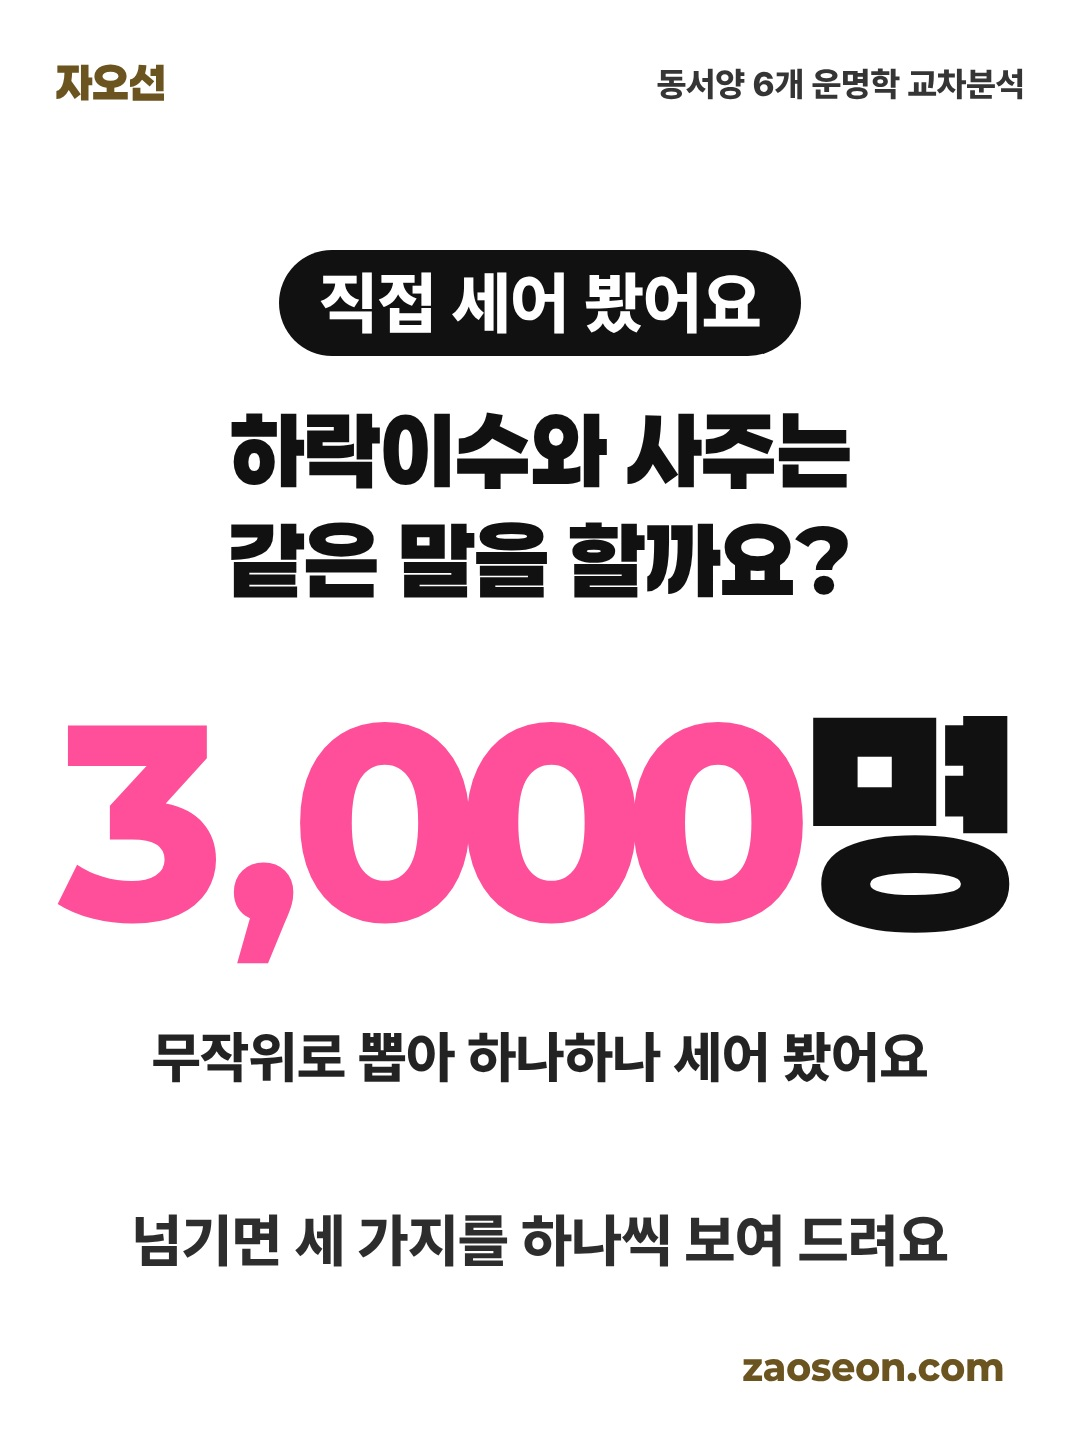
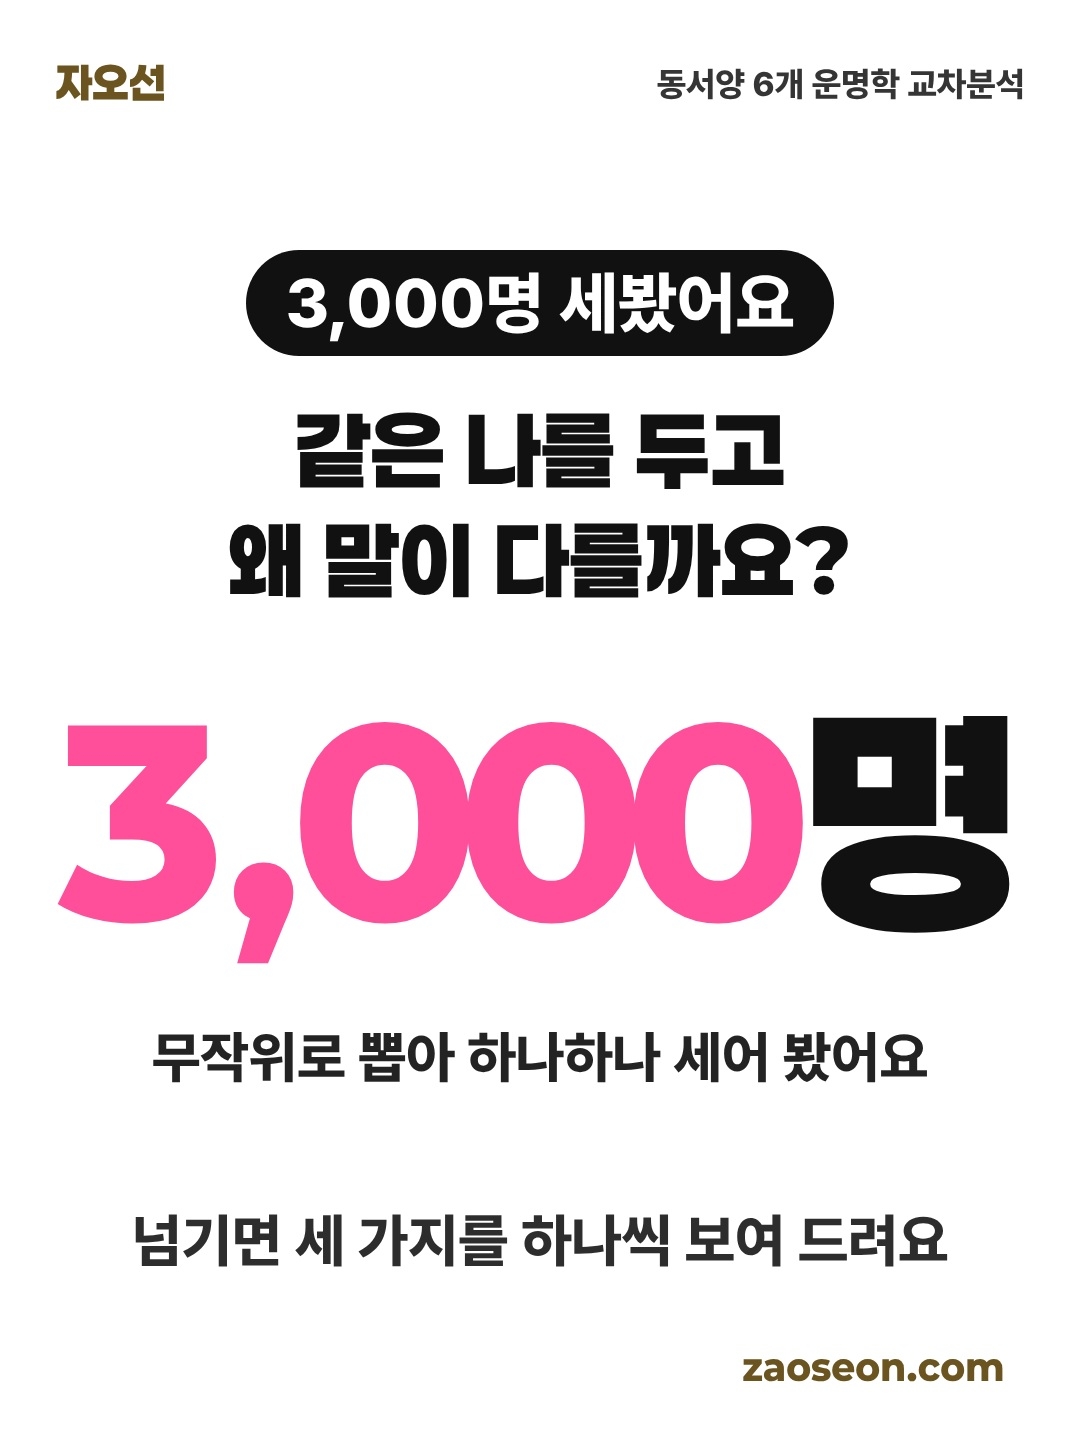
글 규칙을 코드 한 곳으로 (copy_rules.py) + 20:00 표지 훅 고침
대표 10/16 "카피나 훅, 표현 규칙도 정리 좀 하자".
훅 목록이 naver/prep_post.py 안에만 있어서 카드·릴스는 훅 칸이 **비었는지만** 보고
값이 목록 안인지 대조하지 못했다. 금지어도 일곱 군데에 조금씩 다르게 있었다.

- pipeline/copy_rules.py: 훅 11가지(K-064) · 첫줄검사(K-102) · 채널별 해시태그
  (인스타 5 · 스레드 1 · 네이버 클립 5) · 금지어 합집합
- 같은 훅을 두 이름으로 부르고 있었다(감정 공감형=마음 공감, 오해 교정=흔한 오해 교정) — 별칭표로 묶음
- card_gate: 훅 값 대조 + 표지에만 K-102(본문에서 하락이수 설명은 정상이라 범위를 좁힘)
- 확인: 3초율 낮은 첫 줄 5개 중 4개가 막히고, 높은 첫 줄 5개는 전부 통과

그 결과 20:00 예약(승인 대기) 표지 ig1016-2000 이 걸렸다 — 첫 줄이
"하락이수와 사주는 / 같은 말을 할까요?" 였다. "같은 나를 두고 / 왜 말이 다를까요?" 로
바꿔 다시 그렸다. 뜻은 그대로, 체계 이름만 뺐다.

Claude-Session: https://claude.ai/code/session_01FteCatzvvaHsxyBVK4nK62

Changed region(s): [[0.2139, 0.2812, 0.7944, 0.4375], [0.2139, 0.1562, 0.7944, 0.25]]

diff --git a/pipeline/copy_rules.py b/pipeline/copy_rules.py
@@ -1,0 +1,106 @@
+"""글(카피·훅) 규칙 한 곳 — 대표 10/16 "카피나 훅, 표현 규칙도 정리 좀 하자".
+
+그림 규격은 `channel_specs`·`brand_frame`·`card_gate` 가 맡는다. 여기는 **글**만 맡는다.
+
+왜 만들었나
+  훅 목록이 `naver/prep_post.py` 안에만 파이썬 리스트로 있었다. 그래서 카드·릴스 쪽에서는
+  훅 유형을 **적었는지만** 보고 **값이 목록 안인지 대조하지 못했다**(card_gate 의 빈 칸 검사).
+  금지어도 파일 일곱 군데에 조금씩 다르게 흩어져 있었다.
+
+여기서 정하는 것
+  훅()      훅 열한 가지(K-064). 26가지는 바깥 조사 자료이지 우리 목록이 아니다
+  첫줄검사() 첫 줄(훅)에 체계 이름을 넣지 않는다 — K-102
+  해시태그() 채널마다 개수가 다르다 — 인스타 5 · 스레드 1 · 네이버 클립 5
+  금지어     여러 파일의 합집합. 쓰는 쪽이 골라 쓴다
+
+K-102 의 근거 (10/16 우리 릴스 28편 실측, content/audit/reel_metrics.json)
+  첫 줄에 체계 이름이 있으면 3초율 5.9%(10편), 없으면 9.6%(18편).
+  형식(일간 성격)을 빼고 봐도 4.5%(6편) 대 8.1%(15편) — 1.8배가 그대로 남는다. 두 번 확인됐다.
+"""
+import re
+
+# ── 훅 열한 가지 (K-064). 네이버·카드·릴스가 같은 목록을 쓴다 ────────────────
+훅 = ("자가진단·번호 고르기", "사람들이 실제로 치는 질문 인용", "상황 지목",
+      "계산 내역 공개", "맞대결(같은 말·다른 말)", "허락",
+      "마음 공감(저만 그런가요)", "작은 행동 큰 결과", "빠른 이해(1분이면)",
+      "번호형 해결책", "흔한 오해 교정")
+
+# 바깥 조사에서 본 26가지 중 쓰지 않기로 판정한 갈래(docs/훅26가지_해외릴스_판정_2026-10-16.md).
+# 이름이 아니라 '성격'으로 적는다 — 번호로 부르면 두 판정표의 번호가 서로 달라 헷갈린다.
+안쓰는훅 = ("성과 자랑", "공포·협박", "가짜 통계", "조급함 몰기", "남 깎아내리기")
+
+# ── 첫 줄(훅)에 넣지 않는 말 — K-102 ──────────────────────────────────────
+체계이름 = re.compile(r"자미두수|하락이수|수비학|육효|당사주|교차분석|운명학|점성술")
+# '사주'와 '별자리'는 사람들이 아는 말이라 막지 않는다. 다만 첫 줄이 **그 둘의 관계를 묻는** 꼴이면 막는다
+# ("내 사주와 별자리는 같은 말을 할까요?" — 우리 체계 설명이지 보는 사람 이야기가 아니다).
+체계관계 = re.compile(r"(사주|별자리)\s*(와|과|랑|하고)\s*\S*\s*(같은|다른|닮|통|맞)")
+
+# ── 채널마다 다른 해시태그 개수 ───────────────────────────────────────────
+해시태그수 = {"insta": 5, "threads": 1, "naver_clip": 5}
+
+# ── 금지어 (여러 파일의 합집합, 10/16 정리) ───────────────────────────────
+확신 = ("반드시", "무조건", "확실합니다", "적중률", "적중", "100%")
+내부말 = ("엔진", "초안", "의미축", "환산", "교차 시험", "기궁", "흉성", "6체계", "리포트", "데이터 릴스", "수린")
+옛표현 = ("타고난 결", "세 지도", "두 지도", "세 가지 지도", "겹으로")
+불안 = ("큰일", "손해", "치료")
+금지어 = 확신 + 내부말 + 옛표현 + 불안
+
+
+def 첫줄검사(줄):
+    """릴스·카드의 첫 줄(훅)을 본다. 걸리는 까닭 목록을 돌려준다(비면 통과)."""
+    bad = []
+    if 체계이름.search(줄):
+        bad.append(f"첫 줄에 체계 이름이 있어요: '{체계이름.search(줄).group()}'. "
+                   "보는 사람이 모르는 말이라 멈추지 않아요(K-102 — 28편 실측 1.8배 차이). "
+                   "아는 말로 바꾸세요(타고난 성격·속마음·올해 흐름).")
+    if 체계관계.search(줄):
+        bad.append("첫 줄이 '우리 체계 둘이 서로 맞느냐'를 묻고 있어요. "
+                   "보는 사람 이야기로 바꾸세요(K-102).")
+    for w in 금지어:
+        if w in 줄:
+            bad.append(f"금지어 '{w}'")
+    return bad
+
+
+# 같은 훅을 두 이름으로 부르고 있었다 — K-064 목록과 26가지 판정표(docs/훅26가지…)의 이름이 다르다.
+# 10/16에 사양을 세어 보니 두 이름이 섞여 쓰이고 있었다. 뜻이 같은 것끼리 묶어 둔다.
+별칭 = {"감정 공감형": "마음 공감(저만 그런가요)",
+        "오해 교정": "흔한 오해 교정",
+        "자가진단": "자가진단·번호 고르기",
+        "숫자 공개": "계산 내역 공개",
+        "따라 하기 안내": "빠른 이해(1분이면)",
+        "상황 지목형": "상황 지목"}
+
+
+def 바른이름(유형):
+    """사양에 적은 이름을 K-064 의 이름으로 바꾼다. 꼬리말(설명)은 떼고 본다."""
+    if not 유형:
+        return None
+    t = str(유형).split("(")[0].strip() if str(유형).split("(")[0].strip() in 별칭 else str(유형).strip()
+    for k, v in 별칭.items():            # "오해 교정(#15 …)" 처럼 설명이 붙은 것도 받는다
+        if t == k or t.startswith(k + "("):
+            return v
+    return t
+
+
+def 훅검사(유형):
+    """사양에 적은 훅 유형이 열한 가지 안인지 본다. card_gate 가 부른다."""
+    if not 유형:
+        return ["훅 유형을 사양에 적으세요(K-064 열한 가지 중 하나). 안 적으면 같은 유형만 쓰게 돼요."]
+    이름 = 바른이름(유형)
+    if 이름 in 훅:
+        return []
+    가까운 = [h for h in 훅 if str(이름).split("·")[0][:3] in h]
+    귀띔 = f" 혹시 이것인가요: {가까운[0]}" if 가까운 else ""
+    return [f"훅 유형 '{유형}' 은 열한 가지에 없어요(K-064).{귀띔}\n"
+            f"    쓸 수 있는 것: {' · '.join(훅)}"]
+
+
+def 태그검사(태그목록, 채널="insta"):
+    """채널에 맞는 해시태그 개수인지. 스레드는 1개다 — 인스타 5개를 그대로 쓰면 안 된다."""
+    want = 해시태그수.get(채널, 5)
+    if len(태그목록) != want:
+        return [f"{채널} 해시태그는 {want}개인데 {len(태그목록)}개예요."]
+    if 채널 in ("insta", "naver_clip") and "#사주" not in 태그목록:
+        return ["첫 태그에 #사주 가 있어야 해요."]
+    return []

diff --git a/pipeline/card_gate.py b/pipeline/card_gate.py
@@ -57,6 +57,17 @@ def 세트(cards, channel="insta_carousel", 한편=False, 이름=""):
         return []
     bad = []
     꼬리 = f" [{이름}]" if 이름 else ""
+    import copy_rules as CR
+
+    def 첫줄(c):
+        h = c.get("hook")
+        return (h[0] if isinstance(h, list) and h else (h or ""))
+
+    # 첫 1초에 체계 이름을 넣지 않는다 — K-102. 표지(한 편의 첫 장, 낱장은 그 장)에만 건다.
+    표지 = [cards[0]] if (한편 and cards) else list(cards)
+    for c in 표지:
+        for x in CR.첫줄검사(첫줄(c)):
+            bad.append(f"{c.get('id','?')} 표지: {x}")
 
     def 속(c):
         """이 장이 할 말을 담고 있나 — 제목만 있고 비면 '부실'이다."""
@@ -161,9 +172,12 @@ def before(c, channel="insta_carousel", prev=None, prev_faces=None, prev_layouts
         if len(c["hook"]) > 1 and any(len(l.strip()) <= 2 for l in c["hook"]):
             bad.append("제목에 두 글자 이하 줄이 있어요. 의미 단위로 고르게 나누세요.")
 
-    # 6. 훅 유형 (K-064) — 열한 가지에서 돌려 쓴다
-    if not c.get("훅"):
-        bad.append("훅 유형을 사양에 적으세요(K-064 열한 가지 중 하나). 안 적으면 같은 유형만 쓰게 돼요.")
+    # 6. 훅 유형 (K-064) — 열한 가지에서 돌려 쓴다.
+    #    10/16까지는 '적었는지'만 봤다. 값이 목록 안인지는 아무도 안 봐서 아무 말이나 적어도 지나갔다.
+    import copy_rules as CR
+    bad += CR.훅검사(c.get("훅"))
+    # 체계 이름 금지(K-102)는 **표지에만** 건다 — 세트() 가 첫 장에 대고 부른다.
+    # 본문 장에서 하락이수를 설명하는 것은 정상이다. 여기서 모든 장에 걸면 본문을 못 쓴다.
 
     # 7. 쌓은 높이가 구역을 넘는가 — 넘치면 글끼리 겹친다(10/16 L4 띠에서 났다)
     CH2 = CS.CH[channel]
